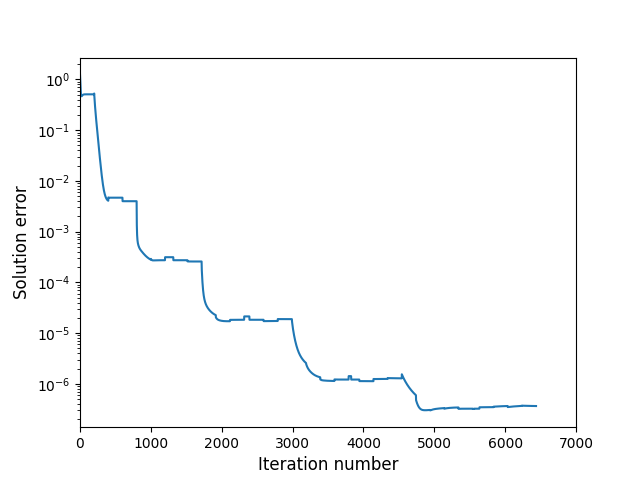
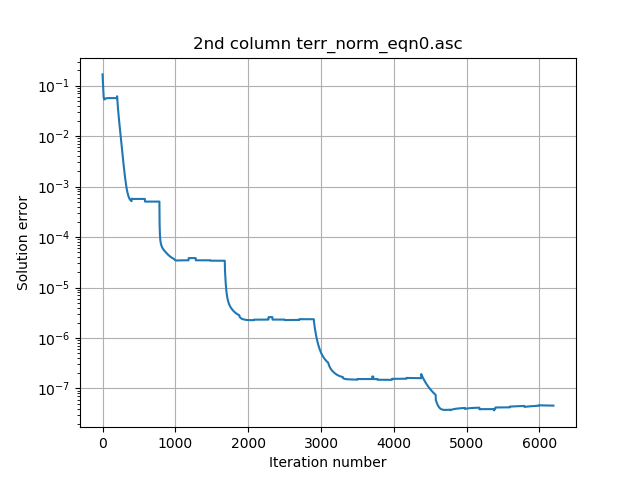
gabella updating index.html, new err.png

diff --git a/gallery/poisson/index.html b/gallery/poisson/index.html
@@ -63,16 +63,16 @@
           <tr>
             <th>approx. runtime</th>
 
-            <td>30 min using 8 CPUs</td>
+            <td>30 min using 8 CPUs (1 node, 8 mpi tasks, and 1 cpu per task)</td>
           </tr>
           <tr>
-            <th>Results (225MB)</th>
+            <th>Results (293MB)</th>
 
-            <td><a href="https://bitbucket.org/einsteintoolkit/www/downloads/poisson-20191011.tar.gz">poisson-20191011.tar.gz</a>
+            <td><a href="https://bitbucket.org/einsteintoolkit/www/downloads/poisson-20191011.tar.gz">poisson_20200529.tar.gz</a>
             </td>
           </tr>
         </table>
-        <p>This example was last tested on 11-October-2019.</p>
+        <p>This example was last tested on 29-May-2020.</p>
 
 
         <h5>Solution and sources</h5>
@@ -80,12 +80,12 @@
 
         <p><img  alt="Solution psi and sources" src="psi.png" width="60%">
         </p>
+	<br><br>
+
+        <h5>Solution Error</h5>
 
 
-        <h5>Error</h5>
-
-
-        <p><img  alt="Error" src="err.png" width="60%">
+        <p><img  alt="Solution Error" src="err.png" width="60%">
         </p>
         <script src="../../footer/footer.js" type="text/javascript">
         </script>
